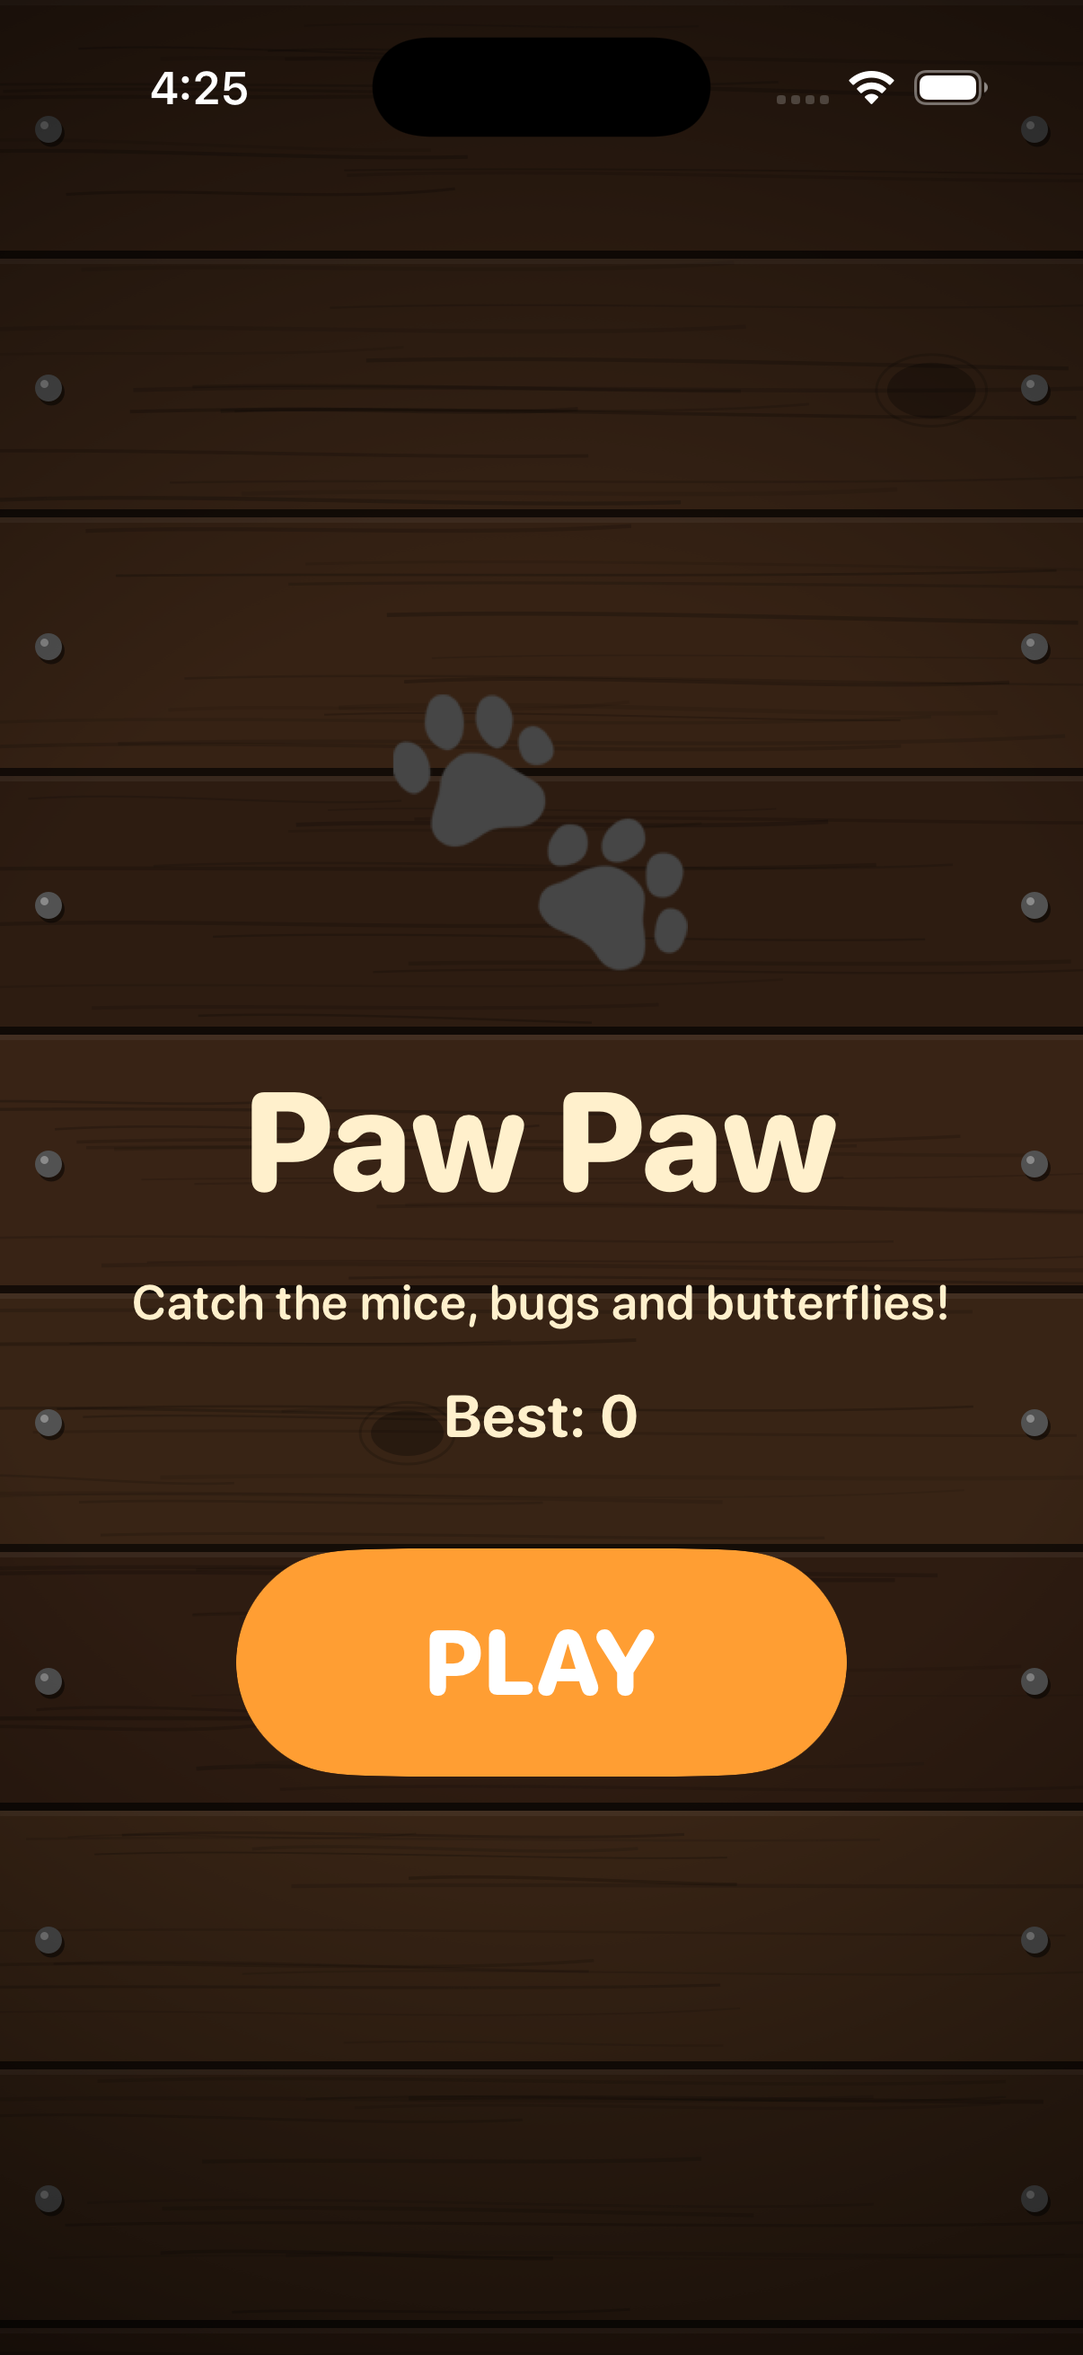
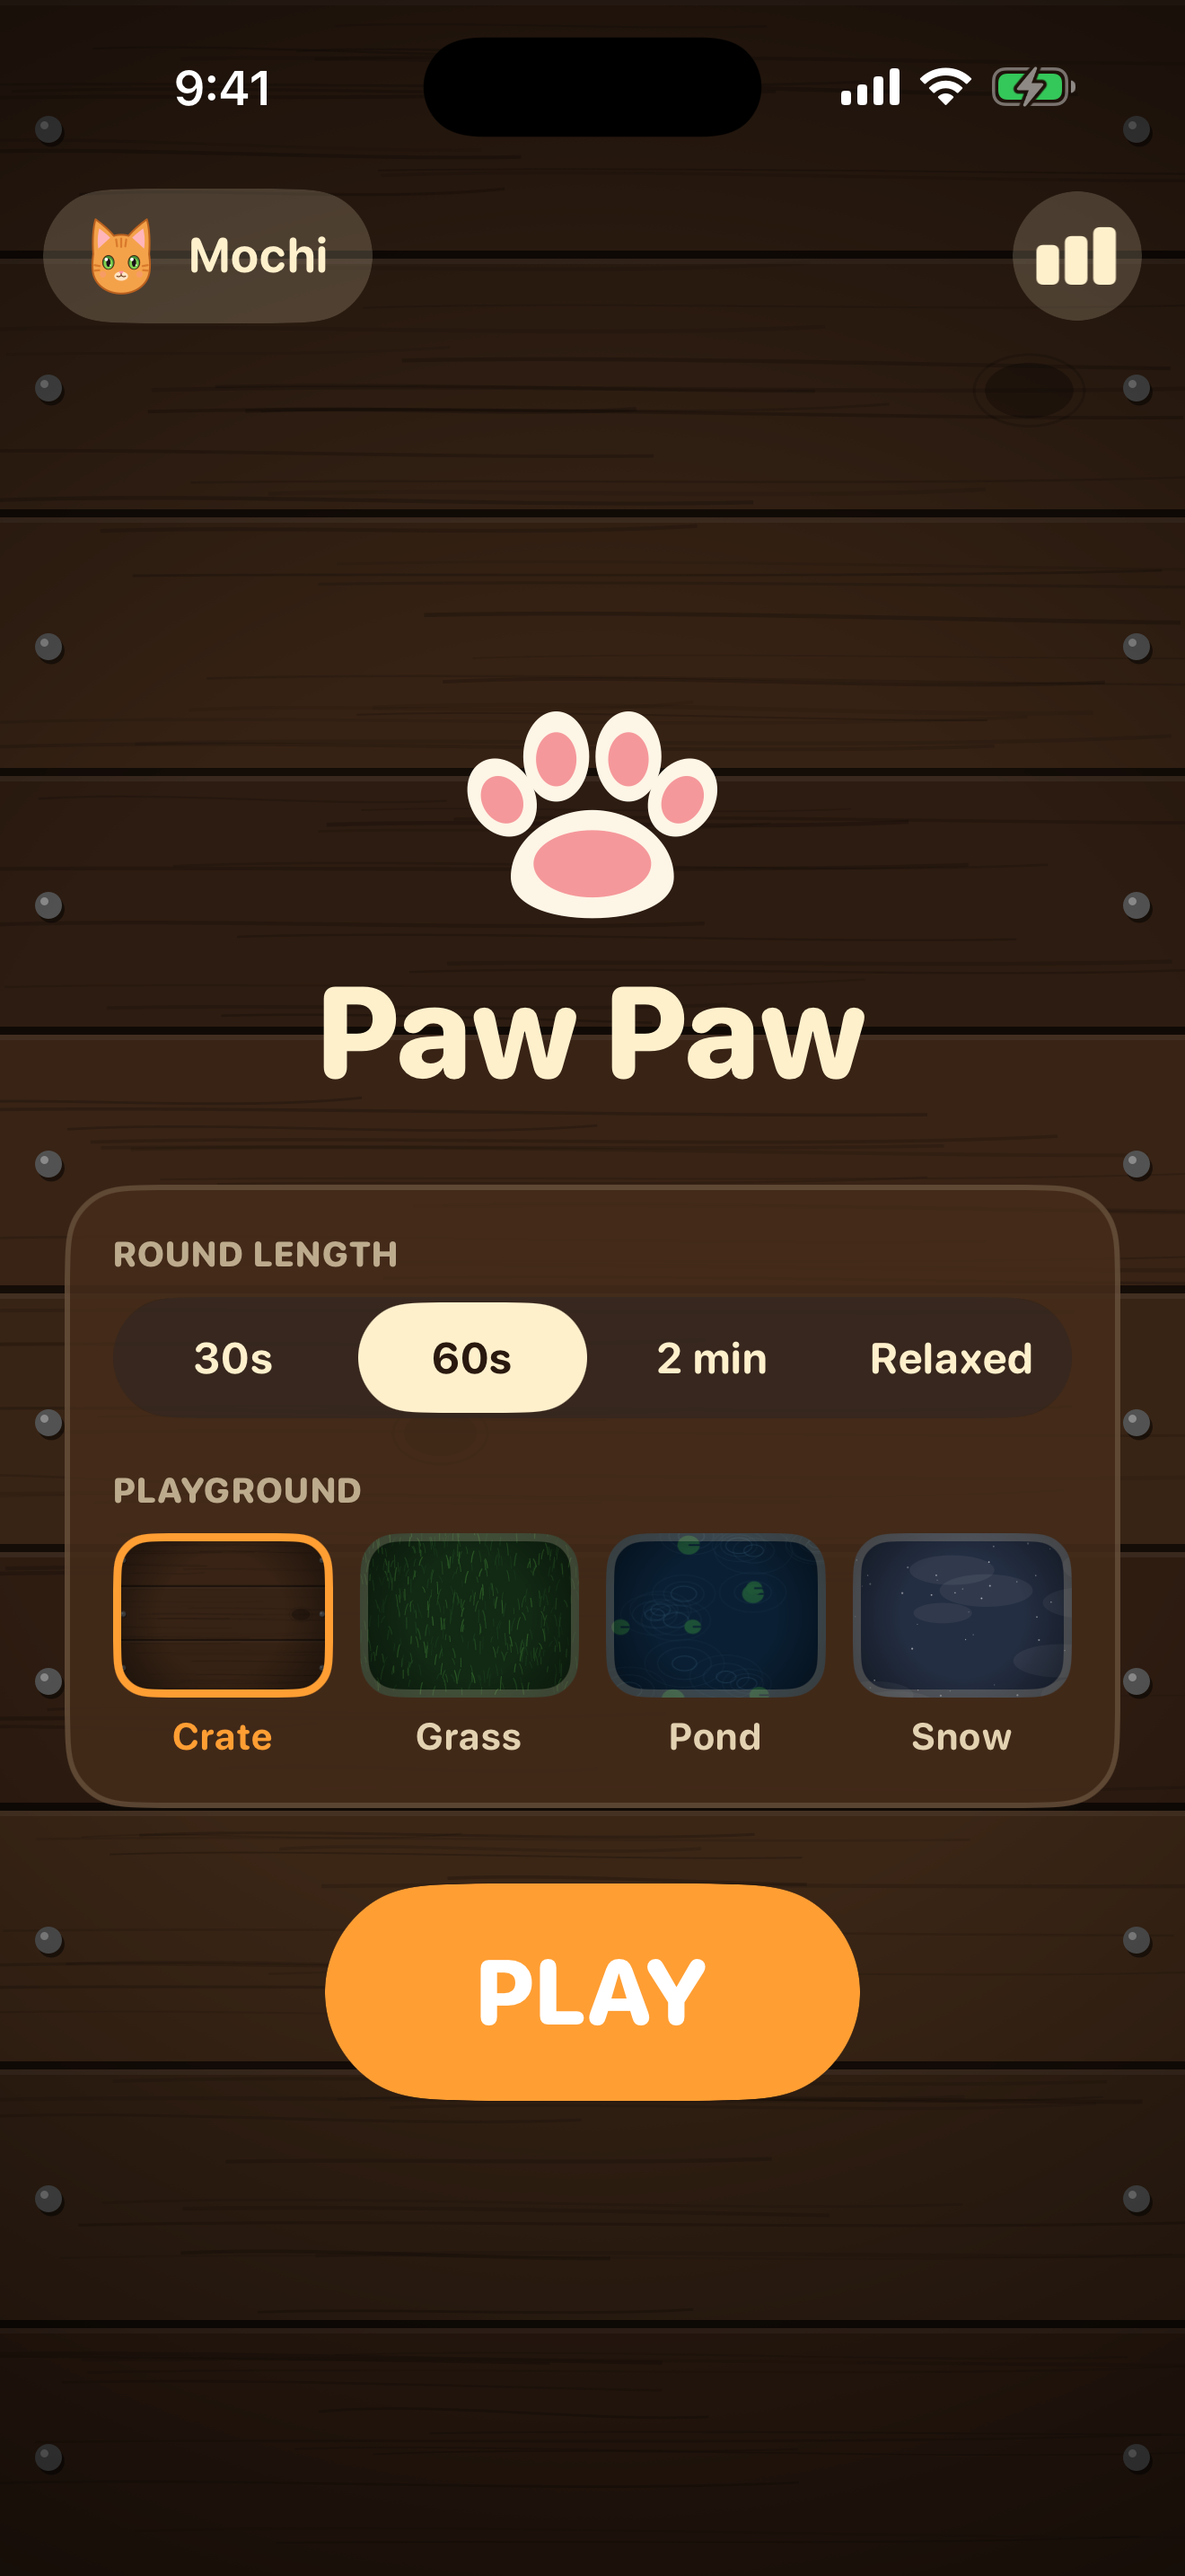
chore: Update previews and README

diff --git a/README.md b/README.md
@@ -8,17 +8,15 @@ Built with **Swift** and **UIKit** (no storyboards or SwiftUI), following the **
 
 ### iPhone
 
-| Home | Gameplay | Video
-|:---:|:---:|:---:|
-| <img src="previews/iphone-home.png" alt="Paw Paw home screen on iPhone" width="280"> | <img src="previews/iphone-gameplay.png" alt="Paw Paw gameplay on iPhone" width="280"> | https://github.com/user-attachments/assets/42b09ec8-3e3a-4238-8e96-210aef7c2d1a |
-
-
+| Home | Gameplay | Stats | Profiles |
+|:---:|:---:|:---:|:---:|
+| <img src="previews/iphone-home.png" alt="Paw Paw home screen on iPhone" width="200"> | <img src="previews/iphone-gameplay.png" alt="Paw Paw gameplay on iPhone" width="200"> | <img src="previews/iphone-stats.png" alt="Paw Paw stats on iPhone" width="200"> | <img src="previews/iphone-profiles.png" alt="Paw Paw profiles on iPhone" width="200"> |
 
 ### iPad
 
-| Home | Gameplay | Video
-|:---:|:---:|:---:|
-| <img src="previews/ipad-home.png" alt="Paw Paw home screen on iPad" width="380"> | <img src="previews/ipad-gameplay.png" alt="Paw Paw gameplay on iPad" width="380"> | https://github.com/user-attachments/assets/deded609-790c-484b-b927-a53345a3e72b |
+| Home | Gameplay | Stats | Profiles |
+|:---:|:---:|:---:|:---:|
+| <img src="previews/ipad-home.png" alt="Paw Paw home screen on iPad" width="220"> | <img src="previews/ipad-gameplay.png" alt="Paw Paw gameplay on iPad" width="220"> | <img src="previews/ipad-stats.png" alt="Paw Paw stats on iPad" width="220"> | <img src="previews/ipad-profiles.png" alt="Paw Paw profiles on iPad" width="220"> |
 
 ## How to play
 
